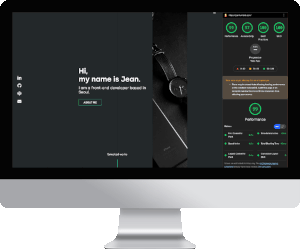
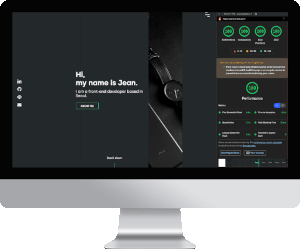
Replace lighthouse screenshot

diff --git a/src/hooks/useSuspenseAnimation.tsx b/src/hooks/useSuspenseAnimation.tsx
@@ -43,7 +43,7 @@ const useSuspenseAnimation = (
         Promise.all([
           import_,
           fetchData,
-          new Promise((resolve) => setTimeout(resolve, isInit ? 700 : 1000)),
+          new Promise((resolve) => setTimeout(resolve, isInit ? 700 : 900)),
         ]).then(([imp, query, _]) => {
           if (fetchData) {
             setData(query);
